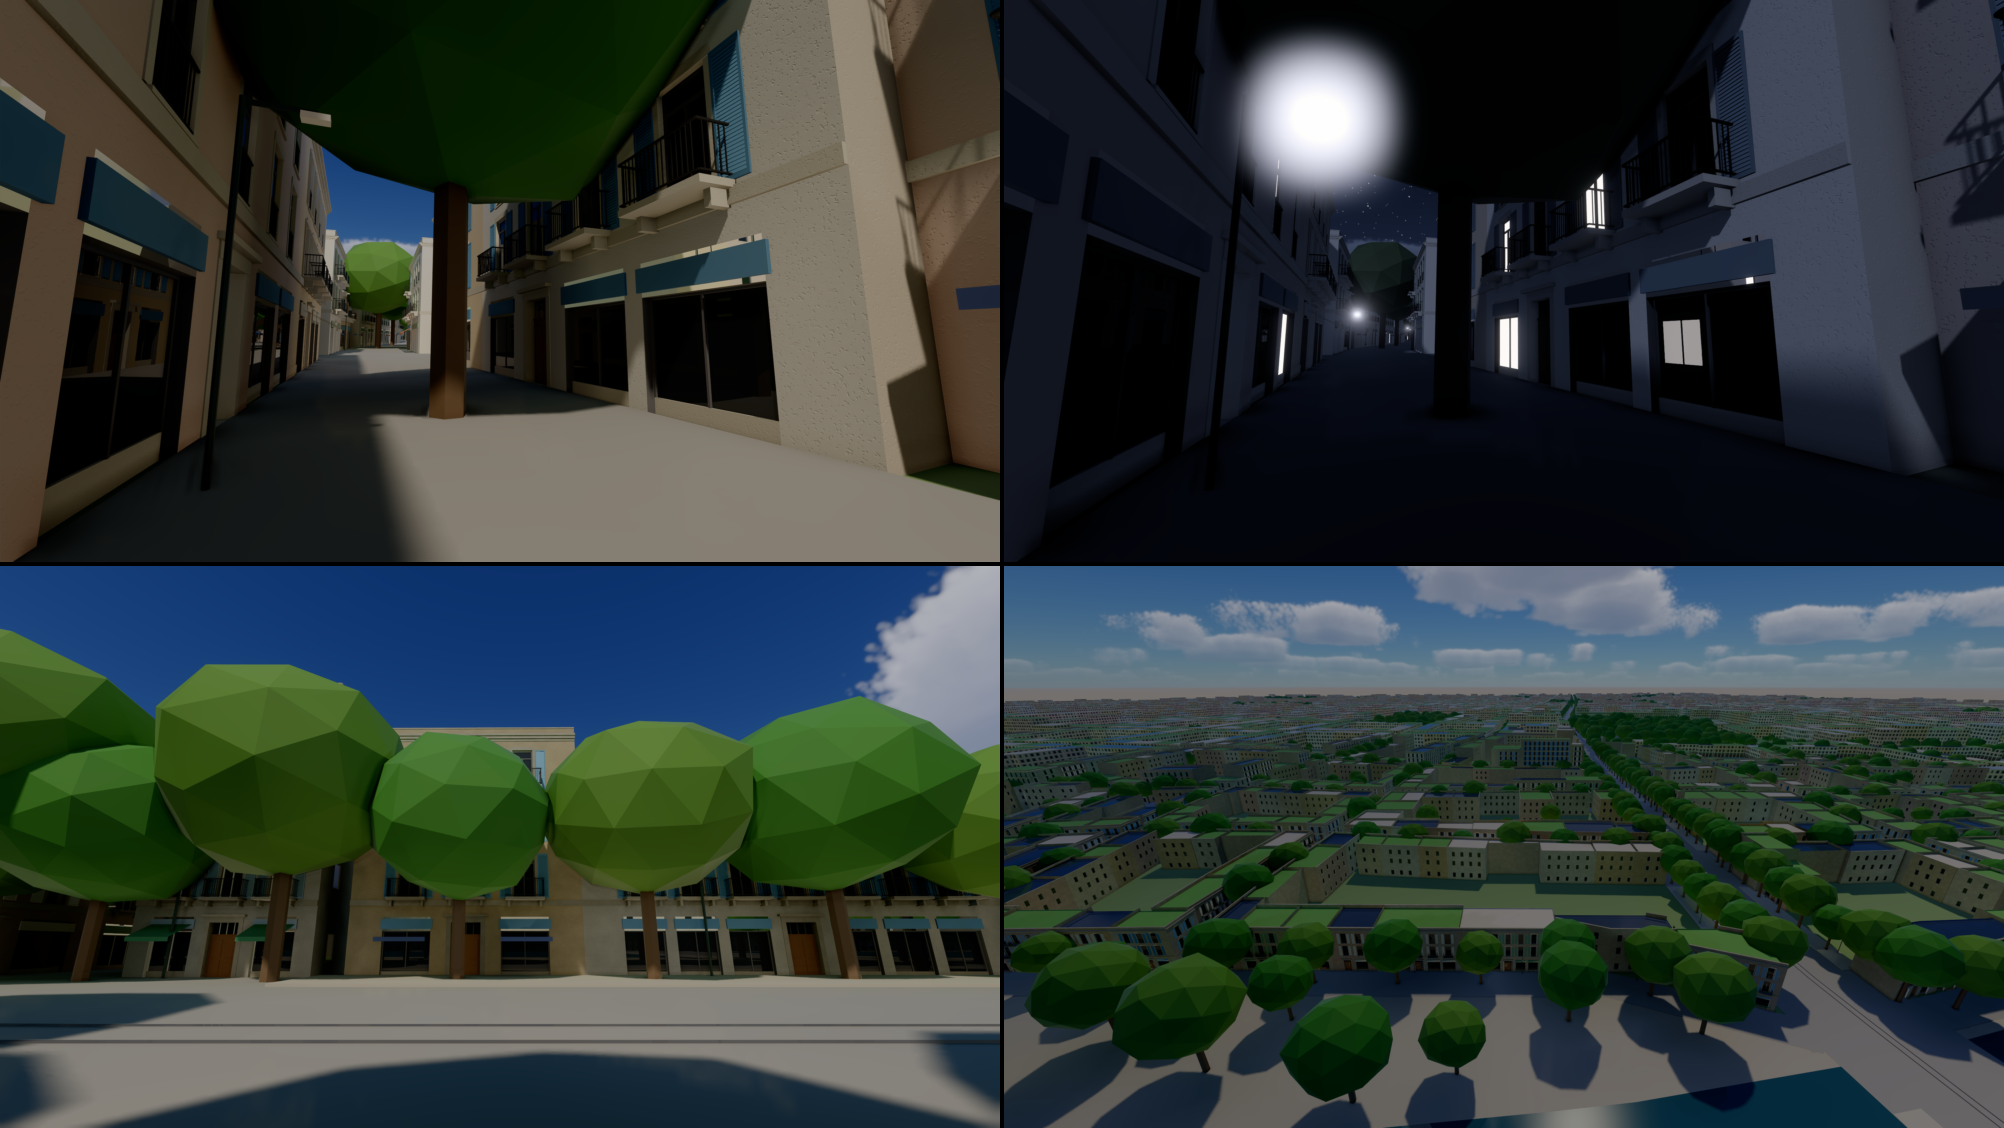
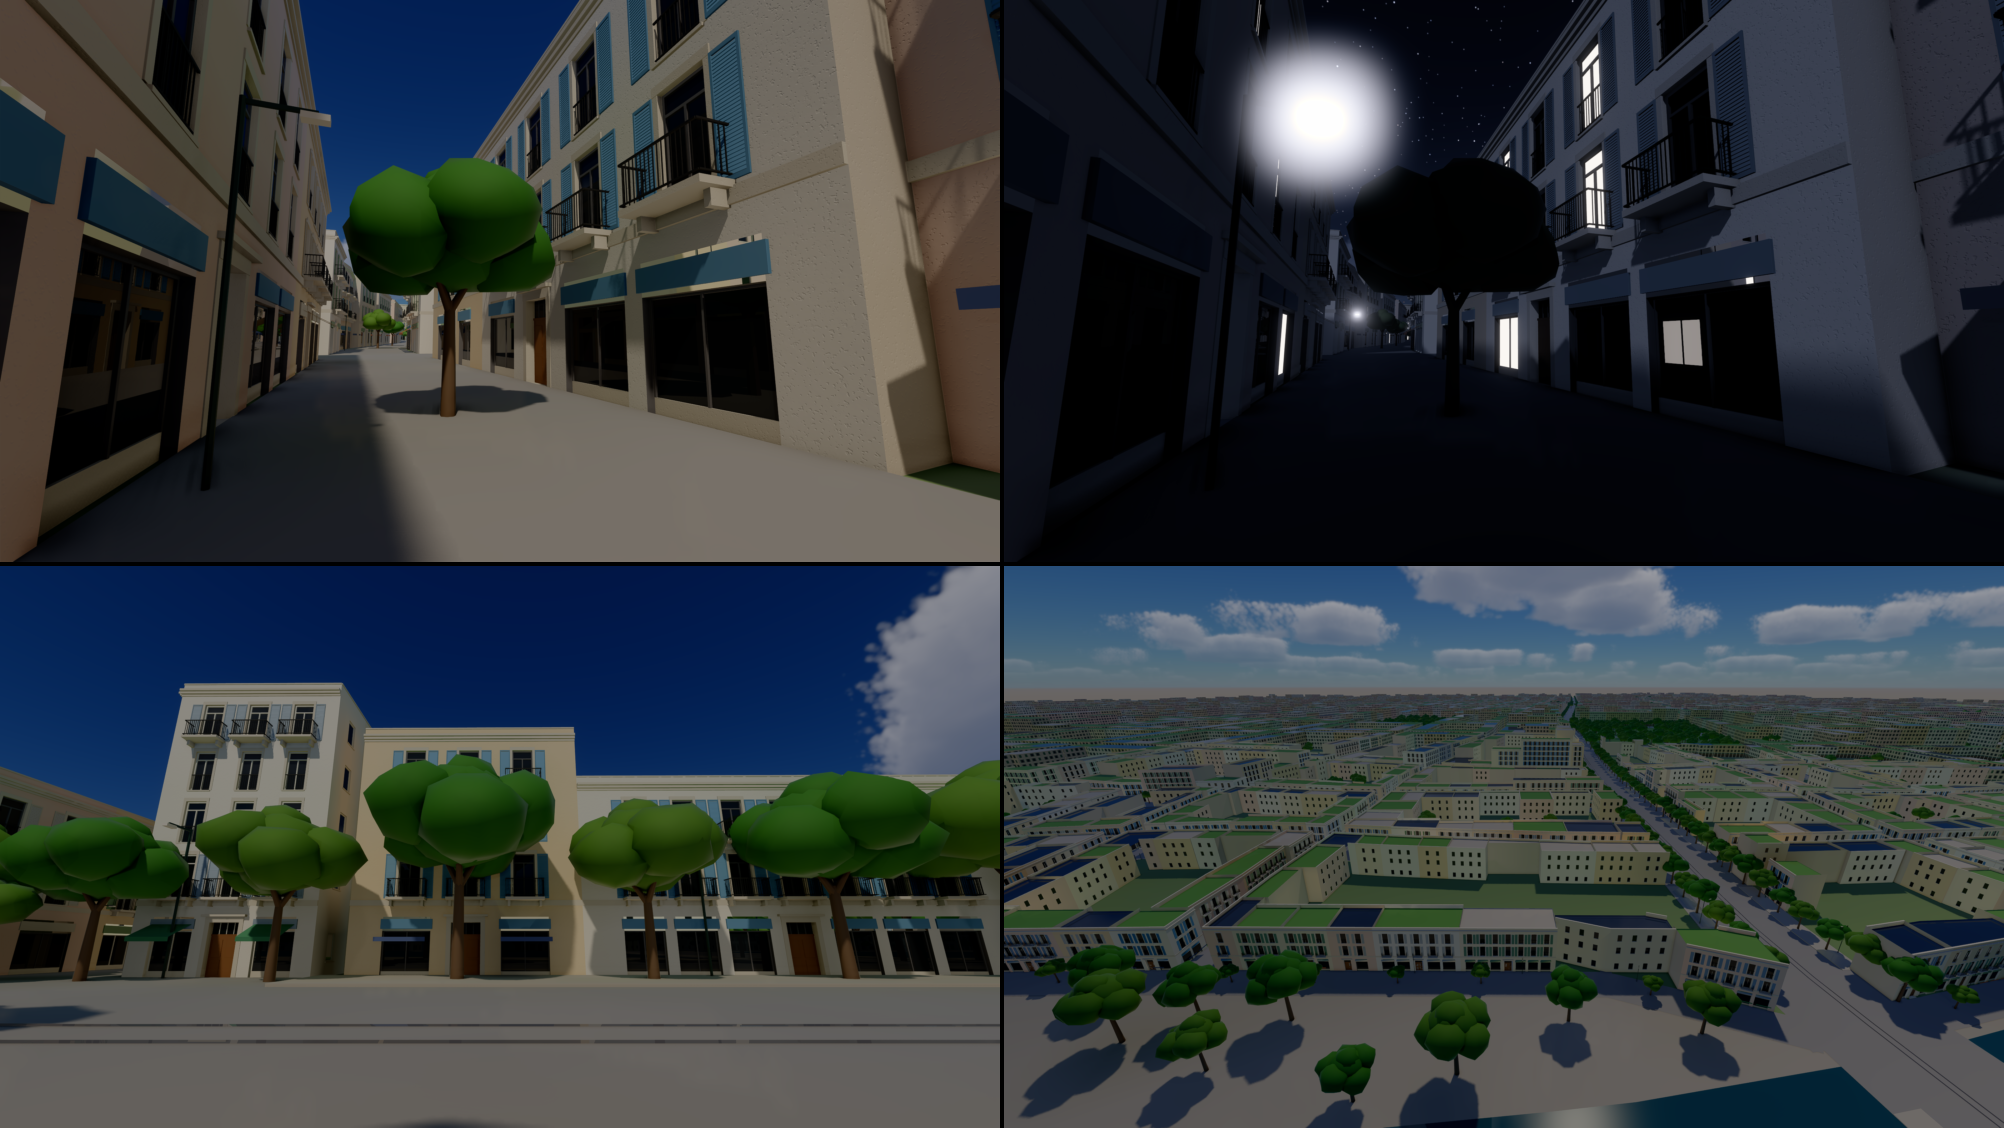
City trees sized to their streets, a model of limbs and lumps (#247's views)
Street trees take their height and crown from the street's profile: 11-15 m planes on the
avenues, 7-10 m on shared streets, 5-7 m in the lanes, so crowns stop filling 8 m lanes.
Each instance is scaled by its own crown across and its height up. The one model is now a
trunk forking into three limbs under seven smooth lumps (about 620 triangles, was 92 faceted).
The kit's avenue view: 3.76 ms GPU (3.42 ms without the kit), best of 3.

diff --git a/demos/city-plan/src/lib.rs b/demos/city-plan/src/lib.rs
@@ -169,9 +169,9 @@ fn colour(rgb: [f32; 3], power: f32, specular: f32) -> RenderLayer {
 /// A plan in 3D: its meshes, built on the CPU, cooked and drawn when the app builds the scene.
 pub struct PlanScenario {
     tiles: Vec<Tile>,
-    /// Each tree's place in the world, its scale (its height over the model's 10 m), its turn and
-    /// which of the two models it uses.
-    trees: Vec<(Vec3, f32, f32, usize)>,
+    /// Each tree's place in the world, its scale (its crown over the model's 4.2 m radius, its
+    /// height over the model's 10 m up), its turn and which of the two leaf colours it uses.
+    trees: Vec<(Vec3, Vec3, f32, usize)>,
     /// Each lamp's place, scale (its height over the model's 8 m) and turn.
     lamps: Vec<(Vec3, f32, f32)>,
     /// The style kit's instanced modules and their instances (module, transform, group).
@@ -288,7 +288,11 @@ impl PlanScenario {
                 let turn = (i as f32 * 2.399_963).rem_euclid(std::f32::consts::TAU);
                 (
                     world(size, t.pos, 0.0),
-                    (t.height / 10.0) as f32,
+                    Vec3::new(
+                        (t.crown / 4.2) as f32,
+                        (t.height / 10.0) as f32,
+                        (t.crown / 4.2) as f32,
+                    ),
                     turn,
                     i % 2,
                 )
@@ -910,7 +914,7 @@ impl Scenario for PlanScenario {
             let model = builder.add_mesh(&MeshletMesh::build(&tree_model()));
             for &(at, scale, turn, kind) in &self.trees {
                 let transform = Mat4::from_scale_rotation_translation(
-                    Vec3::splat(scale),
+                    scale,
                     glam::Quat::from_rotation_y(turn),
                     at,
                 );
@@ -1012,25 +1016,90 @@ fn strip(tiles: &mut Tiles, left: &[DVec2], right: &[DVec2], height: f64, sectio
     }
 }
 
-/// A tree 10 m tall: a hexagonal trunk to 4.5 m (section 0) and a crown (section 1), an
-/// icosahedron subdivided once and roughened, 4.2 m across its widest, its normals radial.
+/// A broadleaf tree 10 m tall, its crown 4.2 m in radius; each instance scales it to its tree's
+/// height and crown. A tapering trunk forks into three limbs (section 0) under a crown of lumps
+/// (section 1): a large one in the middle, five round it at different heights and one on top,
+/// each an icosahedron subdivided once, a little irregular and smooth-shaded.
 fn tree_model() -> TriMesh {
+    use std::f32::consts::TAU;
     let mut mesh = TriMesh::default();
-    // The trunk.
-    let sides = 6;
-    for k in 0..sides {
-        let a = k as f32 / sides as f32 * std::f32::consts::TAU;
-        let b = (k + 1) as f32 / sides as f32 * std::f32::consts::TAU;
-        let (pa, pb) = (
-            Vec3::new(a.cos() * 0.28, 0.0, a.sin() * 0.28),
-            Vec3::new(b.cos() * 0.28, 0.0, b.sin() * 0.28),
-        );
-        let up = Vec3::Y * 5.0;
-        let out = ((pa + pb) * 0.5).normalize();
-        triangle(&mut mesh, [pa, pb, pb + up], out, 0);
-        triangle(&mut mesh, [pa, pb + up, pa + up], out, 0);
+    limb(&mut mesh, Vec3::ZERO, Vec3::new(0.0, 4.4, 0.0), 0.3, 0.2);
+    for k in 0..3 {
+        let a = k as f32 * TAU / 3.0 + 0.5;
+        let end = Vec3::new(a.cos() * 1.7, 6.8, a.sin() * 1.7);
+        limb(&mut mesh, Vec3::new(0.0, 4.0, 0.0), end, 0.17, 0.07);
     }
-    // The crown: an icosahedron's faces, each cut in four, pushed onto an ellipsoid.
+    lump(&mut mesh, Vec3::new(0.0, 7.0, 0.0), 2.7, 0);
+    for k in 0..5_u32 {
+        let a = k as f32 * TAU / 5.0 + 0.2;
+        let y = 6.3 + 0.5 * ((k * 2) % 3) as f32;
+        lump(
+            &mut mesh,
+            Vec3::new(a.cos() * 2.2, y, a.sin() * 2.2),
+            2.0,
+            k + 1,
+        );
+    }
+    lump(&mut mesh, Vec3::new(0.3, 8.4, -0.2), 1.6, 7);
+    mesh
+}
+
+/// A triangle with a normal per corner, turned so it faces along their sum.
+fn smooth_triangle(mesh: &mut TriMesh, mut p: [Vec3; 3], mut n: [Vec3; 3], section: u8) {
+    if (p[1] - p[0]).cross(p[2] - p[0]).dot(n[0] + n[1] + n[2]) < 0.0 {
+        p.swap(1, 2);
+        n.swap(1, 2);
+    }
+    let base = mesh.positions.len() as u32;
+    for (q, m) in p.into_iter().zip(n) {
+        mesh.positions.push(q.to_array());
+        mesh.normals.push(m.to_array());
+    }
+    mesh.indices.extend([base, base + 1, base + 2]);
+    mesh.sections.push(section);
+}
+
+/// A tapering seven-sided limb from `a` (radius `ra`) to `b` (radius `rb`), section 0.
+fn limb(mesh: &mut TriMesh, a: Vec3, b: Vec3, ra: f32, rb: f32) {
+    let axis = (b - a).normalize();
+    let u = axis.any_orthonormal_vector();
+    let v = axis.cross(u);
+    let sides = 7;
+    let ring = |k: u32| {
+        let t = k as f32 / sides as f32 * std::f32::consts::TAU;
+        u * t.cos() + v * t.sin()
+    };
+    for k in 0..sides {
+        let (d0, d1) = (ring(k), ring(k + 1));
+        let (p0, p1) = (a + d0 * ra, a + d1 * ra);
+        let (q0, q1) = (b + d0 * rb, b + d1 * rb);
+        smooth_triangle(mesh, [p0, p1, q1], [d0, d1, d1], 0);
+        smooth_triangle(mesh, [p0, q1, q0], [d0, d1, d0], 0);
+    }
+}
+
+/// A crown's lump round `centre`, about `radius` across, a little flattened, its surface
+/// rippled by `seed`; section 1.
+fn lump(mesh: &mut TriMesh, centre: Vec3, radius: f32, seed: u32) {
+    let s = seed as f32 * 1.7;
+    let place = |d: Vec3| {
+        let d = d.normalize();
+        let bump = 1.0
+            + 0.09 * (d.x * 7.3 + d.y * 3.1 + d.z * 5.7 + s).sin()
+            + 0.05 * (d.x * 13.1 - d.z * 11.3 + s * 2.3).sin();
+        (
+            centre + Vec3::new(d.x, d.y * 0.85, d.z) * radius * bump,
+            Vec3::new(d.x, d.y / 0.85, d.z).normalize(),
+        )
+    };
+    for tri in icosphere() {
+        let p = tri.map(place);
+        smooth_triangle(mesh, p.map(|q| q.0), p.map(|q| q.1), 1);
+    }
+}
+
+/// An icosahedron's faces, each cut in four: 80 triangles of unit directions.
+fn icosphere() -> Vec<[Vec3; 3]> {
     let t = (1.0 + 5.0_f32.sqrt()) * 0.5;
     let v: [Vec3; 12] = [
         Vec3::new(-1.0, t, 0.0),
@@ -1068,26 +1137,13 @@ fn tree_model() -> TriMesh {
         [8, 6, 7],
         [9, 8, 1],
     ];
-    let centre = Vec3::new(0.0, 7.0, 0.0);
-    let place = |d: Vec3| {
-        let d = d.normalize();
-        // A little roughness, the same for the same direction.
-        let bump = 1.0 + 0.08 * (d.x * 7.3 + d.y * 3.1 + d.z * 5.7).sin();
-        (
-            centre + Vec3::new(d.x * 4.2, d.y * 3.6, d.z * 4.2) * bump,
-            d,
-        )
-    };
+    let mut out = Vec::with_capacity(80);
     for f in faces {
         let (a, b, c) = (v[f[0]], v[f[1]], v[f[2]]);
         let (ab, bc, ca) = ((a + b) * 0.5, (b + c) * 0.5, (c + a) * 0.5);
-        for tri in [[a, ab, ca], [ab, b, bc], [ca, bc, c], [ab, bc, ca]] {
-            let p = tri.map(place);
-            let normal = (p[0].1 + p[1].1 + p[2].1).normalize();
-            triangle(&mut mesh, [p[0].0, p[1].0, p[2].0], normal, 1);
-        }
+        out.extend([[a, ab, ca], [ab, b, bc], [ca, bc, c], [ab, bc, ca]]);
     }
-    mesh
+    out
 }
 
 /// A pedestrian's eye on the pavement of the avenue nearest `near`, 1.7 m up, looking along it.

diff --git a/crates/forge-procgen/src/city/trees.rs b/crates/forge-procgen/src/city/trees.rs
@@ -47,13 +47,16 @@ pub fn trees(site: &Site, plan: &CityPlan, seed: u64) -> Vec<Tree> {
         if e.bridge {
             continue;
         }
-        // Rows: offsets from the centreline and the spacing, by profile.
-        let (rows, spacing): (&[f64], f64) = match e.profile {
-            Profile::TramAvenue => (&[-0.5, 0.5], 9.0),
-            Profile::Avenue => (&[-0.5, 0.5], 9.0),
-            Profile::Shared => (&[0.5], 11.0),
-            Profile::Pedestrian => (&[0.0], 18.0),
-            Profile::Path => (&[], 0.0),
+        // Rows: offsets from the centreline and the spacing, by profile; and the trees' heights
+        // and crowns, which a street's width bounds: mature planes on the avenues, smaller
+        // trees on shared streets, small ones in the lanes, whose crowns must leave the
+        // facades in view.
+        let (rows, spacing, height, crown): (&[f64], f64, (f64, f64), (f64, f64)) = match e.profile
+        {
+            Profile::TramAvenue | Profile::Avenue => (&[-0.5, 0.5], 9.0, (11.0, 15.0), (3.5, 4.8)),
+            Profile::Shared => (&[0.5], 11.0, (7.0, 10.0), (2.4, 3.4)),
+            Profile::Pedestrian => (&[0.0], 18.0, (5.0, 7.0), (1.8, 2.5)),
+            Profile::Path => (&[], 0.0, (0.0, 0.0), (0.0, 0.0)),
         };
         let half = e.profile.width() * 0.5;
         let length = e.length();
@@ -71,8 +74,8 @@ pub fn trees(site: &Site, plan: &CityPlan, seed: u64) -> Vec<Tree> {
                 }
                 out.push(Tree {
                     pos: q,
-                    height: rng.range_f64(11.0, 16.0),
-                    crown: rng.range_f64(3.5, 5.0),
+                    height: rng.range_f64(height.0, height.1),
+                    crown: rng.range_f64(crown.0, crown.1),
                     setting: Setting::Street,
                 });
             }

diff --git a/docs/demos/city-plan.md b/docs/demos/city-plan.md
@@ -202,8 +202,8 @@ neighbours differ.
 | Merged triangles added (walls, bands, cornices) | 355 k |
 | Derived and assembled | 71 ms (one thread) |
 | Longest run of one opening along a floor of a street front | 11 |
-| GPU frame at 2800 × 1575, this view, best of 3 | 3.79 ms (3.62 ms with `--detail 0`) |
-| Scene built and cooked | 2.96 s (2.57 s) |
+| GPU frame at 2800 × 1575, this view, best of 3 | 3.76 ms (3.42 ms with `--detail 0`) |
+| Scene built and cooked | 2.96 s (2.56 s) |
 
 ![Faces round the centre](images/city-plan-faces.png)
 
@@ -211,6 +211,12 @@ neighbours differ.
 walls grey, entrances as dots, corners in yellow. Lots without a courtyard are now built along
 every street they front (a strip along each), so a block between two streets has two
 fronts; 14 807 masses instead of 14 700.*
+
+**The trees, sized to their streets.** Mature planes of 11–15 m line the avenues, 7–10 m trees
+the shared streets and 5–7 m trees the lanes. Each instance is scaled by its own crown
+across and its height up. The one model is a trunk forking into three limbs under a crown
+of seven smooth lumps (about 620 triangles), so the crowns no longer hide the facades from
+the pavement.
 
 ## Next (#245–#247)
 
@@ -224,4 +230,4 @@ fronts; 14 807 masses instead of 14 700.*
   - corner pieces and quoins;
   - roofs from the straight skeleton;
   - trims and materials of release quality (#249).
-- The trees in front of the facades: finer models, so the street is not hidden by crowns.
+- Trees by species (vegetation-materials.md §1, the grower) in place of the one lumpy model.
